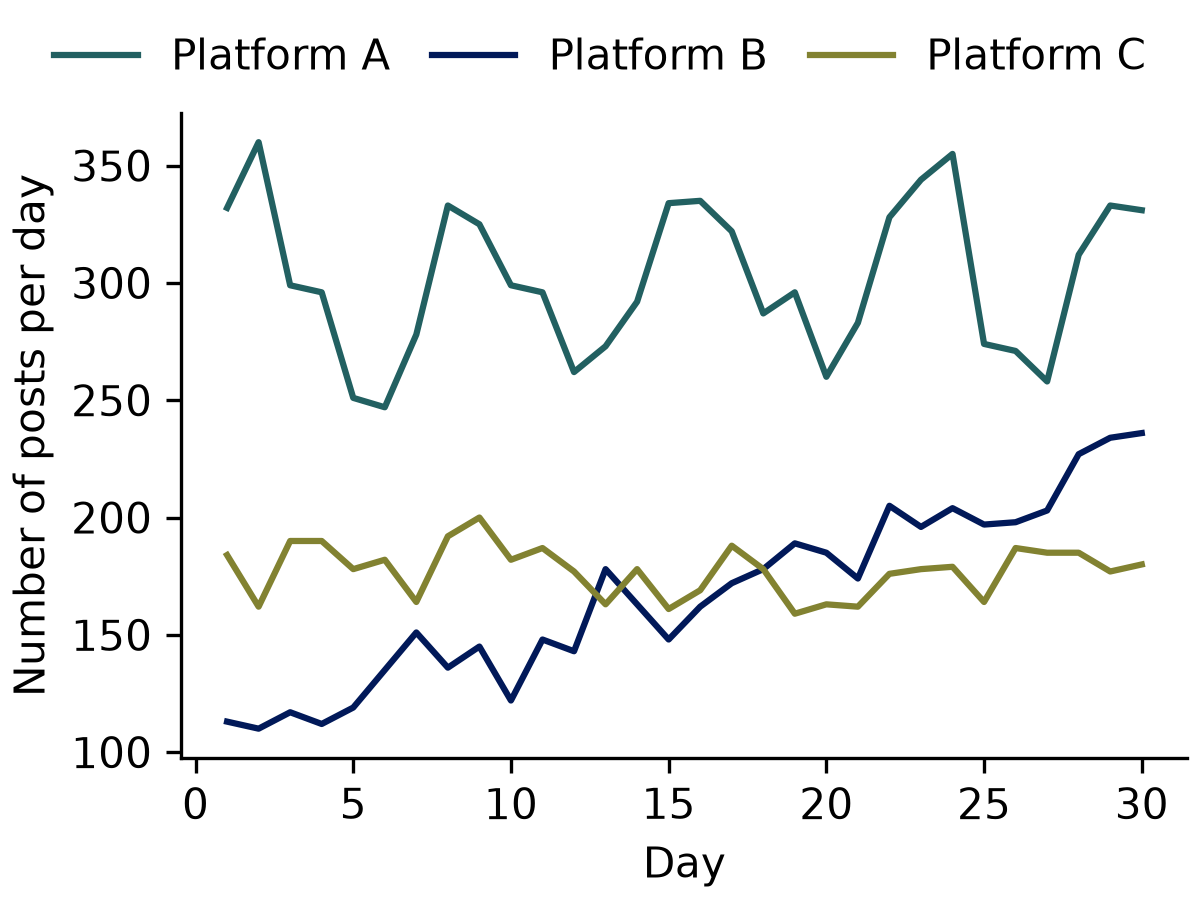
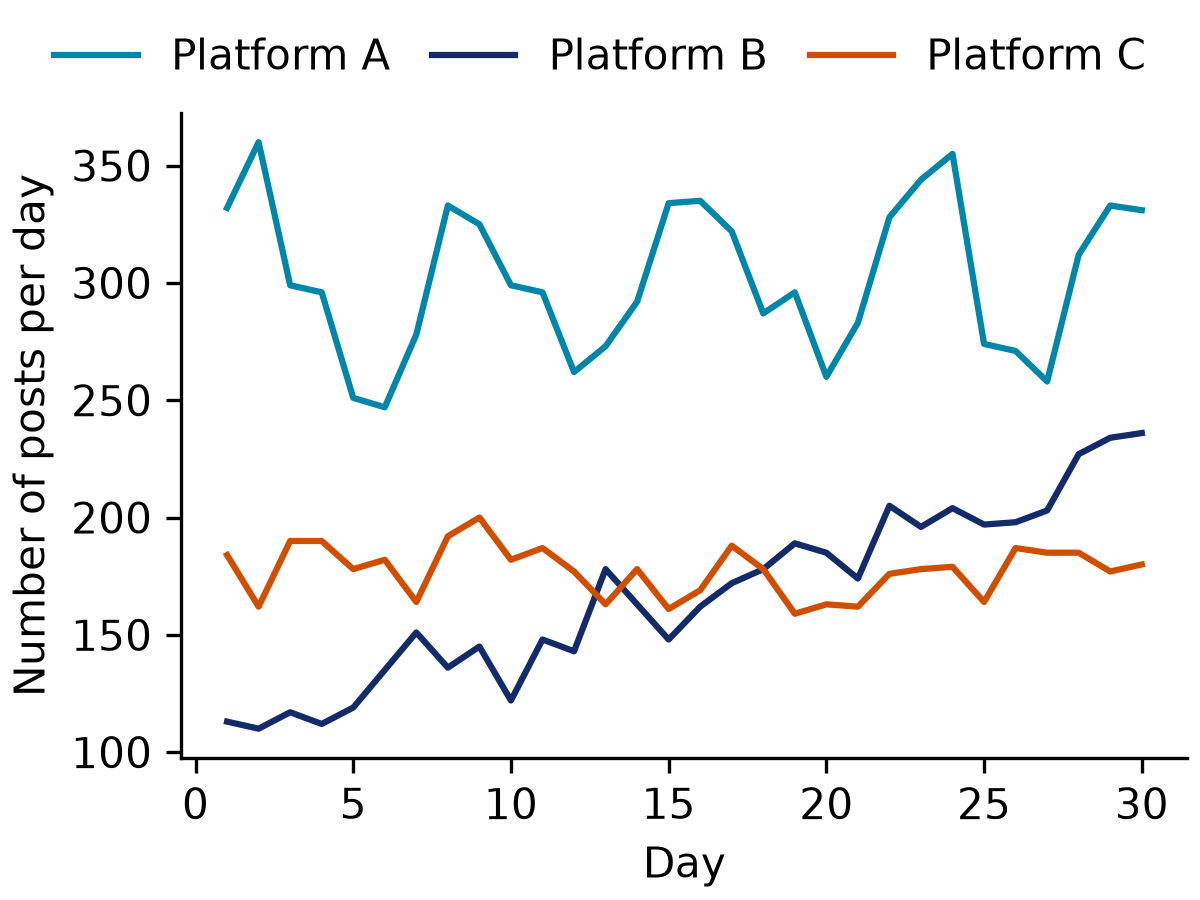
visualization: the report figure takes its colors from the Johnson color map in place of batlowS

diff --git a/docs/topics/visualization/principles.md b/docs/topics/visualization/principles.md
@@ -226,20 +226,20 @@ Some readers have a color-vision deficiency, and some reports are printed in bla
 Take the colors of a figure from a color-blind friendly color map, and check each color against the background of the figure.
 The page [Color](color.md) covers how to choose and check a color map.
 
-Step 4 takes the colors from `batlowS`.
+Step 4 takes the colors from `Johnson`.
 It is a categorical color map of the Scicolor package: a list of colors for groups that have no order.
-The next code shows its first four colors as hex codes.
+The next code shows its five colors as hex codes.
 
 ```python
-cmap = scicolor.get_cmap("batlowS")
-[to_hex(cmap(i)) for i in range(4)]    # ['#011959', '#faccfa', '#828231', '#226061']
+cmap = scicolor.get_cmap("Johnson")
+[to_hex(cmap(i)) for i in range(5)]    # ['#a00e00', '#d04e00', '#f6c200', '#0086a8', '#132b69']
 ```
 
-The four colors are a dark blue, a light pink, an olive green, and a dark teal.
-A thin line in light pink is hard to see on a white background, so the figure does not use the second color.
+The five colors are a dark red, an orange, a yellow, a teal, and a dark blue.
+A thin line in yellow is hard to see on a white background, so the figure does not use the third color.
 
 ```python
-colors = {"platform_a": cmap(3), "platform_b": cmap(0), "platform_c": cmap(2)}
+colors = {"platform_a": cmap(3), "platform_b": cmap(4), "platform_c": cmap(1)}
 
 fig, ax = plt.subplots(figsize=(4, 3), layout="constrained")
 for column, label in labels.items():
@@ -251,10 +251,11 @@ fig.legend(frameon=False, loc="outside upper center", ncols=3, columnspacing=1)
 plt.show()
 ```
 
-![The figure after step 4, with a width of 400 pixels. The line of platform A is dark teal, the line of platform B is dark blue, and the line of platform C is olive green. The line of platform B rises from about 110 to about 240 posts per day and crosses the line of platform C, which stays near 180.](figures/report-figure-step-4.png){ width="400" }
+![The figure after step 4, with a width of 400 pixels. The line of platform A is teal, the line of platform B is dark blue, and the line of platform C is orange. The line of platform B rises from about 110 to about 240 posts per day and crosses the line of platform C, which stays near 180.](figures/report-figure-step-4.png){ width="400" }
 
 Platform B has the darkest color, because the message is about platform B.
-The lines of platform B and platform C cross, and they have the two colors that differ the most: the dark blue and the olive green.
+The lines of platform B and platform C cross, and they have the two colors that differ the most: the dark blue and the orange.
+The dark blue is also much darker than the orange, so the two lines stay different in a black and white print.
 
 ## Use vector or high-resolution files
 
@@ -308,8 +309,8 @@ posts = pd.DataFrame({
 }).round().astype(int)
 
 labels = {"platform_a": "Platform A", "platform_b": "Platform B", "platform_c": "Platform C"}
-cmap = scicolor.get_cmap("batlowS")
-colors = {"platform_a": cmap(3), "platform_b": cmap(0), "platform_c": cmap(2)}
+cmap = scicolor.get_cmap("Johnson")
+colors = {"platform_a": cmap(3), "platform_b": cmap(4), "platform_c": cmap(1)}
 
 plt.rcParams["font.size"] = 10
 fig, ax = plt.subplots(figsize=(4, 3), layout="constrained")
@@ -333,7 +334,7 @@ The two `savefig` lines are in the code that draws the figure, before `plt.show(
 - [Figure for a Report notebook](report-figure.ipynb): all the code on this page
 - The Matplotlib documentation of [`savefig`](https://matplotlib.org/stable/api/_as_gen/matplotlib.pyplot.savefig.html)
 - The Matplotlib guides on [the runtime settings (`rcParams`)](https://matplotlib.org/stable/users/explain/customizing.html), on [the legend](https://matplotlib.org/stable/users/explain/axes/legend_guide.html), and on [the constrained layout](https://matplotlib.org/stable/users/explain/axes/constrainedlayout_guide.html)
-- [Scicolor](https://pypi.org/project/scicolor/): the package with the color map `batlowS`
+- [Scicolor](https://pypi.org/project/scicolor/): the package with the color map `Johnson`
 - Rougier, Droettboom, and Bourne (2014), [Ten Simple Rules for Better Figures](https://doi.org/10.1371/journal.pcbi.1003833)
 
 Next: [Color](color.md) covers how to choose and check a color map.
